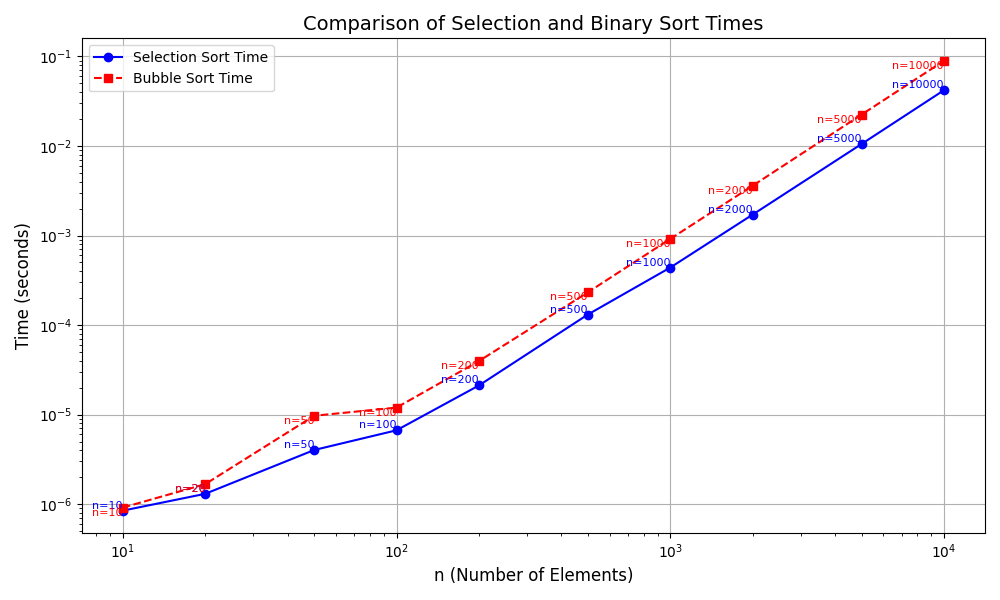
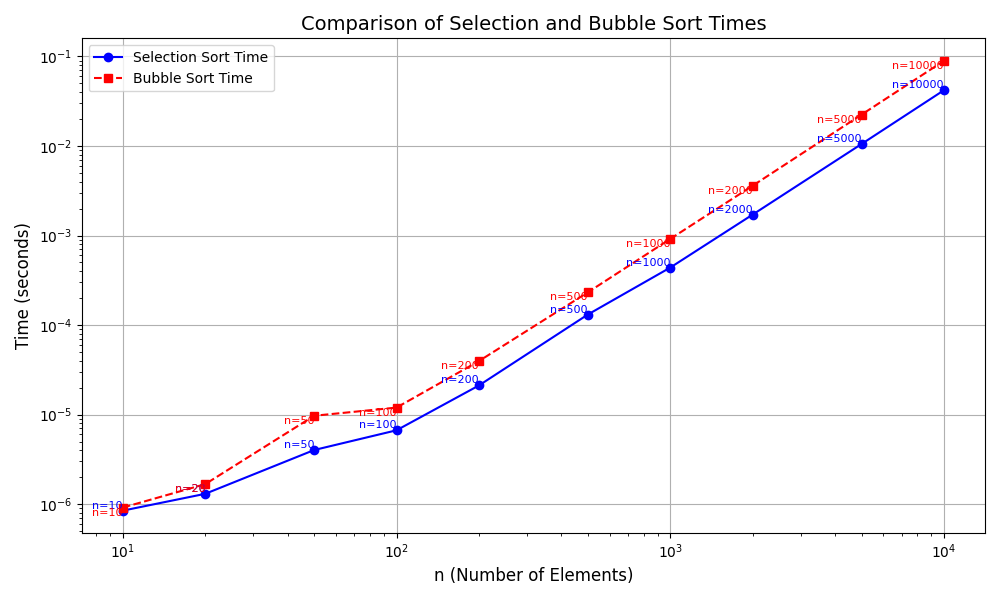
Minor corrections

Changed region(s): [[0.279, 0.03, 0.775, 0.06]]

diff --git a/binary_search_vs_linear_search/plot.py b/binary_search_vs_linear_search/plot.py
@@ -3,42 +3,35 @@ import pandas as pd
 import matplotlib.pyplot as plt
 
 def plot_timing_data(csv_file):
-    # Load the data from CSV into a pandas DataFrame
     data = pd.read_csv(csv_file)
 
-    # Extract columns for n, Linear Search Time, and Binary Search Time
     n_values = data['n']
     linear_search_times = data['Linear Search Time']
     binary_search_times = data['Binary Search Time']
 
-    # Plotting
     plt.figure(figsize=(10, 6))
     plt.plot(n_values, linear_search_times, label='Linear Search Time', marker='o', linestyle='-', color='b')
     plt.plot(n_values, binary_search_times, label='Binary Search Time', marker='s', linestyle='--', color='r')
 
-    # Annotate each data point with its corresponding n value
     for i, n in enumerate(n_values):
         plt.text(n, linear_search_times[i], f'n={n}', ha='right', va='bottom', fontsize=8, color='b')
         plt.text(n, binary_search_times[i], f'n={n}', ha='right', va='top', fontsize=8, color='r')
 
-    # Add labels and title
     plt.xlabel('n (Number of Elements)', fontsize=12)
     plt.ylabel('Time (seconds)', fontsize=12)
     plt.title('Comparison of Linear and Binary Search Times', fontsize=14)
-    plt.xscale('log')  # Use logarithmic scale for x-axis (n values)
-    plt.yscale('log')  # Use logarithmic scale for y-axis (time values)
+    plt.xscale('log')
+    plt.yscale('log') 
     plt.grid(True)
     plt.legend()
 
-    # Show plot
     plt.tight_layout()
     plt.show()
 
 if __name__ == "__main__":
-    # Parse command-line arguments
+    
     parser = argparse.ArgumentParser(description='Plot timing data from a CSV file.')
     parser.add_argument('csv_file', type=str, help='Path to the CSV file containing timing data')
     args = parser.parse_args()
 
-    # Call plot function with specified CSV file path
     plot_timing_data(args.csv_file)

diff --git a/binary_search_vs_linear_search/search_evaluation.c b/binary_search_vs_linear_search/search_evaluation.c
@@ -56,10 +56,6 @@ int main(void) {
     FILE *fp;
 
     fp = fopen("timing_data.csv", "w");
-    if (fp == NULL) {
-        perror("Error opening file");
-        return EXIT_FAILURE;
-    }
     fprintf(fp, "n,Linear Search Time,Binary Search Time\n");
 
     int n[10] = {10, 20, 50, 100, 200, 500, 1000, 2000, 5000, 10000};
@@ -87,5 +83,4 @@ int main(void) {
     }
 
     fclose(fp);
-    return EXIT_SUCCESS;
 }

diff --git a/selection_sort_vs_bubble_sort/plot.py b/selection_sort_vs_bubble_sort/plot.py
@@ -19,7 +19,7 @@ def plot_timing_data(csv_file):
 
     plt.xlabel('n (Number of Elements)', fontsize=12)
     plt.ylabel('Time (seconds)', fontsize=12)
-    plt.title('Comparison of Selection and Binary Sort Times', fontsize=14)
+    plt.title('Comparison of Selection and Bubble Sort Times', fontsize=14)
     plt.xscale('log')
     plt.yscale('log') 
     plt.grid(True)
